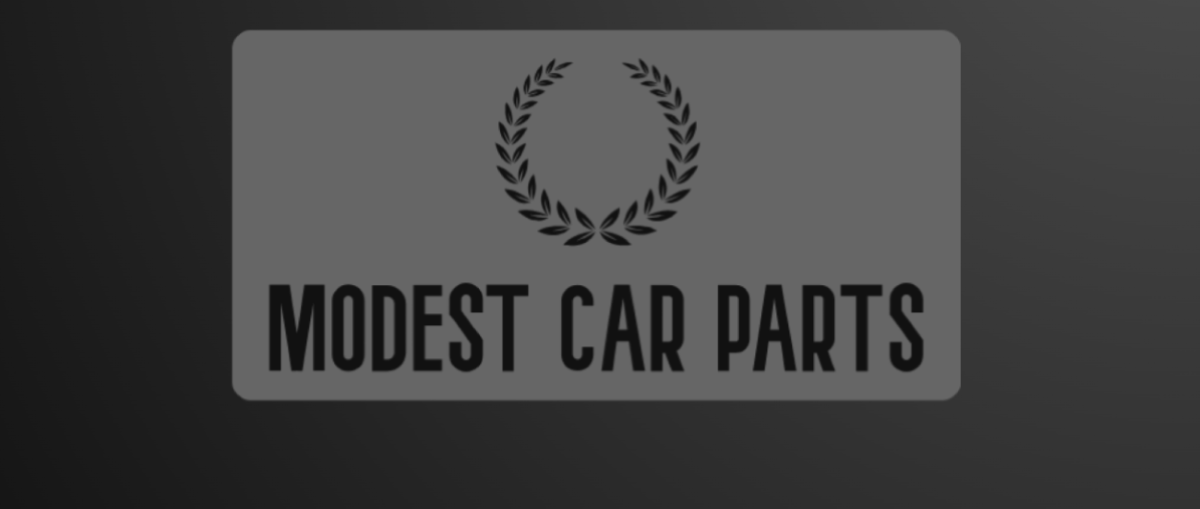
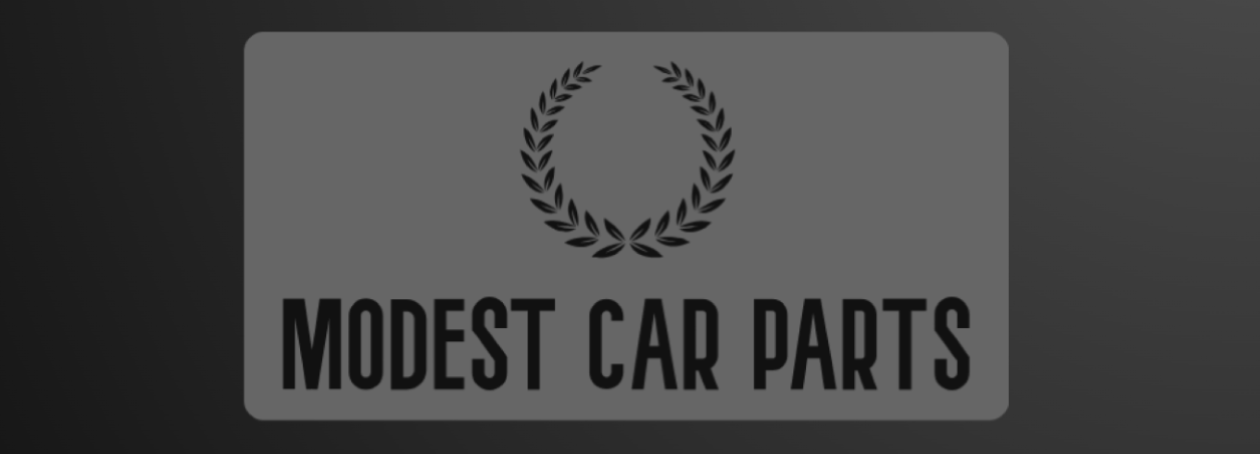
Add files via upload

Changed region(s): [[0.185, 0.1233, 0.8017, 0.9251], [0.185, 0.0617, 0.8017, 0.0925]]

diff --git a/modest car parts.css b/modest car parts.css
@@ -12,9 +12,11 @@ h1{
   mix-blend-mode: overlay;
   font-size: 1em;
   border-radius: 300px;
-  margin-left: 43%;
-  margin-right: 43%;
-  margin-bottom: 100px;
+  margin-left: 43.5%;
+  margin-right: 43.5%;
+  margin-top: 7.5%;
+  margin-bottom: 7.5%;
+  
   background-image: linear-gradient(45deg,
   grey,grey,grey,grey,blue,blue,blue,aqua,aqua);
   background-size: 500%;
@@ -47,12 +49,16 @@ color: blue;
 
 
 header {
-  background-image: url(Screenshot\ \(22\).png);
+  background-image: url(Screenshot\ \(23\).png);
   background-repeat: no-repeat;
   background-color: #666;
   background-size: cover;
-  padding: 12%;
-  
+  background-position: center;
+  padding-top: 7.5%;
+  padding-bottom: 15%;
+  padding-right: 10%;
+  padding-left: 10%;
+  height: fit-content;
   color: #666;
   text-align: center;
   align-content: center;
@@ -105,5 +111,4 @@ footer {
     border: 5px;
     border-left: 50px;
   }
-  
   
